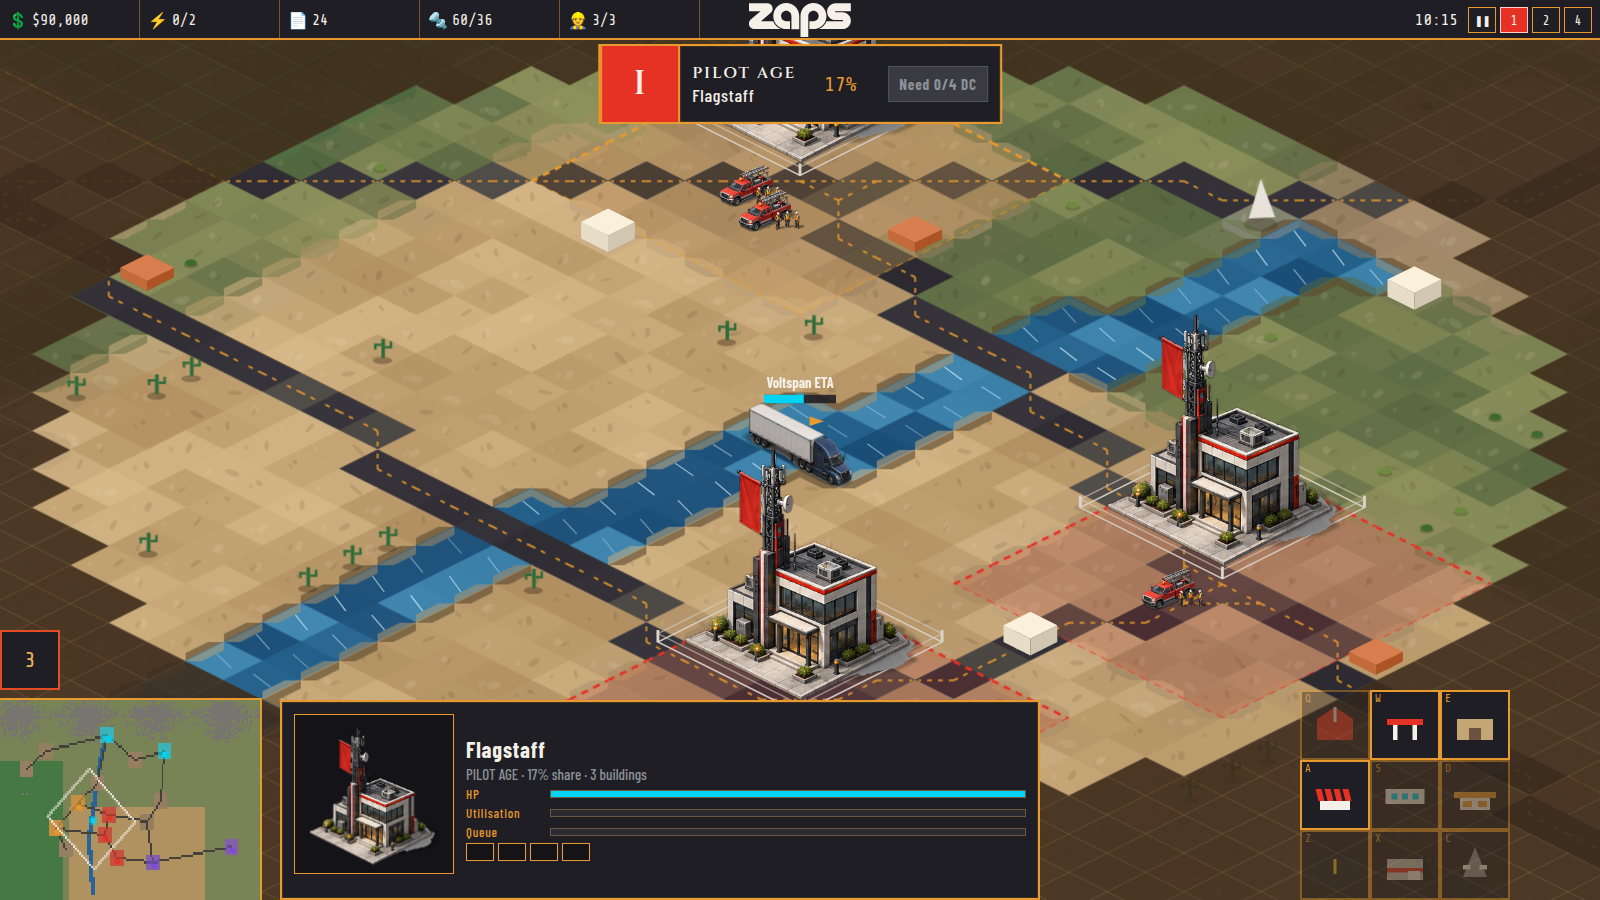
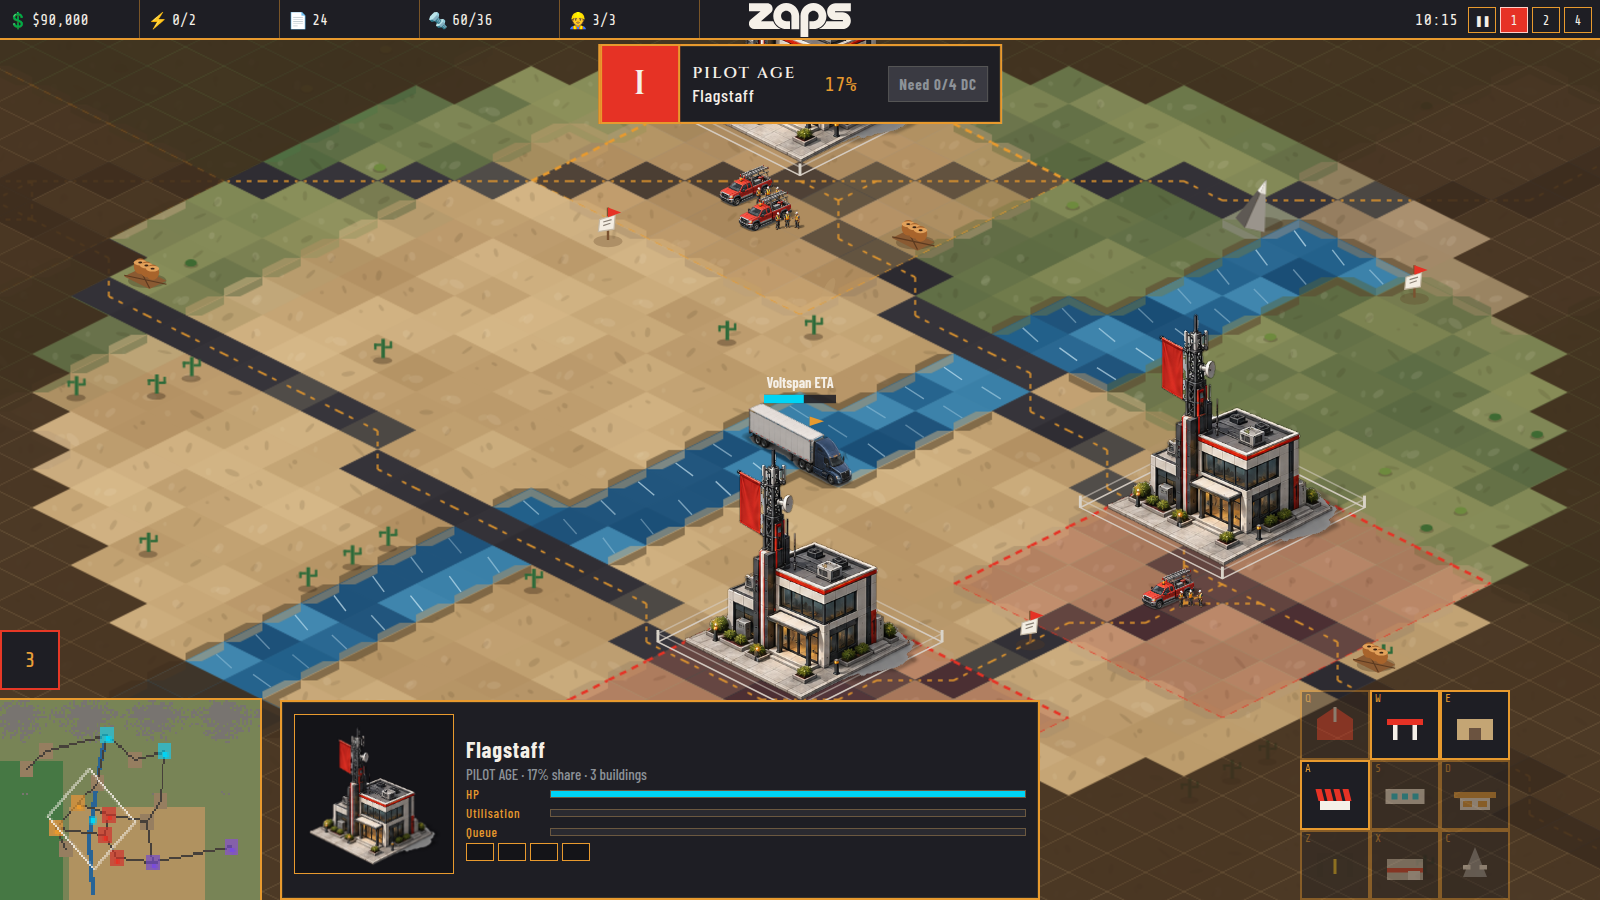
ZAPS EMPIRE: replace the leftover placeholder props.
Permit stakes and copper spools stand in for the node boxes, mountains have shaded faces, and the Phoenix frame keeps a single HQ above the HUD.

diff --git a/game.js b/game.js
@@ -517,11 +517,11 @@
     fogDirty = true;
   }
 
-  function focus(col, row, zoom) {
+  function focus(col, row, zoom, lift = 0) {
     camera.zoom = clamp(zoom, 0.32, 1.85);
     const p = iso(col, row);
     camera.x = viewW() / 2 - p.x * camera.zoom;
-    camera.y = viewH() / 2 - p.y * camera.zoom;
+    camera.y = viewH() / 2 - p.y * camera.zoom - lift;
     clampCamera();
   }
   function clampCamera() {
@@ -1426,17 +1426,7 @@
             g.fill();
             g.globalAlpha = 1;
           }
-          if (biome[idx(c, r)] === MOUNTAIN) {
-            const peak = 12 + hash(c, r) * 22;
-            const top = iso(c + 0.5, r + 0.5);
-            g.fillStyle = "rgba(48,32,18,0.28)";
-            g.beginPath();
-            g.ellipse(top.x, top.y + 4, 14, 6, 0, 0, Math.PI * 2);
-            g.fill();
-            poly(g, [{ x: top.x, y: top.y - peak }, { x: top.x + 12, y: top.y - 2 }, { x: top.x - 10, y: top.y - 1 }]);
-            g.fillStyle = peak > 26 ? "#E7E2DA" : "#8C8680";
-            g.fill();
-          }
+          if (biome[idx(c, r)] === MOUNTAIN) drawMesa(g, c, r);
           if (road[idx(c, r)]) drawRoadMarks(g, c, r);
           const n = hash(c, r);
           const zone = hash((c / 3) | 0, (r / 3) | 0);
@@ -1875,10 +1865,129 @@
     g.fillText(`${FACTION_NAME[c.faction] || "VOLTSPAN"} ETA`, p.x, p.y - 52);
   }
 
+  function drawMesa(g, c, r) {
+    const n = hash(c, r);
+    const peak = 14 + n * 18;
+    const top = iso(c + 0.5, r + 0.42);
+    const apex = { x: top.x + (n - 0.5) * 4, y: top.y - peak };
+    const footL = iso(c + 0.12, r + 0.78);
+    const footR = iso(c + 0.88, r + 0.78);
+    const footB = iso(c + 0.5, r + 0.92);
+    g.fillStyle = "rgba(48,32,18,0.3)";
+    g.beginPath();
+    g.ellipse(top.x, top.y + 5, 16, 6, 0, 0, Math.PI * 2);
+    g.fill();
+    g.fillStyle = n > 0.5 ? "#5E5954" : "#6A645E";
+    poly(g, [apex, footL, footB]);
+    g.fill();
+    g.fillStyle = n > 0.5 ? "#9A948C" : "#B0AAA2";
+    poly(g, [apex, footB, footR]);
+    g.fill();
+    g.strokeStyle = "rgba(40,32,28,0.35)";
+    g.lineWidth = 1;
+    g.beginPath();
+    g.moveTo(apex.x, apex.y);
+    g.lineTo(footB.x, footB.y);
+    g.stroke();
+    if (peak > 22) {
+      const s = 0.28;
+      g.fillStyle = "#F7F4EE";
+      poly(g, [
+        apex,
+        { x: apex.x + (footL.x - apex.x) * s, y: apex.y + (footL.y - apex.y) * s },
+        { x: apex.x + (footB.x - apex.x) * s, y: apex.y + (footB.y - apex.y) * s },
+      ]);
+      g.fill();
+      g.fillStyle = "#E4E0D8";
+      poly(g, [
+        apex,
+        { x: apex.x + (footB.x - apex.x) * s, y: apex.y + (footB.y - apex.y) * s },
+        { x: apex.x + (footR.x - apex.x) * s, y: apex.y + (footR.y - apex.y) * s },
+      ]);
+      g.fill();
+    }
+  }
   function drawNode(g, n) {
-    const color = n.kind === "hall" ? "#E7DCC8" : "#C46A3A";
-    dropShadow(g, n.col, n.row, 12, 5);
-    drawBox(g, n.col - 0.35, n.row - 0.35, 0.7, 0.7, n.kind === "yard" ? 8 : 14, color, shade(color, 20));
+    if (n.kind === "hall") drawPermitStake(g, n);
+    else drawSpoolPallet(g, n);
+  }
+  function drawPermitStake(g, n) {
+    const p = iso(n.col, n.row);
+    g.fillStyle = "rgba(90,62,32,0.28)";
+    g.beginPath();
+    g.ellipse(p.x, p.y + 2, 12, 5, 0, 0, Math.PI * 2);
+    g.fill();
+    g.strokeStyle = "#7A5230";
+    g.lineWidth = 2;
+    g.beginPath();
+    g.moveTo(p.x, p.y + 1);
+    g.lineTo(p.x, p.y - 26);
+    g.stroke();
+    g.fillStyle = "#F3EDE2";
+    g.beginPath();
+    g.moveTo(p.x - 7, p.y - 16);
+    g.lineTo(p.x + 6, p.y - 20);
+    g.lineTo(p.x + 5, p.y - 8);
+    g.lineTo(p.x - 8, p.y - 6);
+    g.closePath();
+    g.fill();
+    g.strokeStyle = "#C4B8A4";
+    g.lineWidth = 1;
+    g.stroke();
+    g.strokeStyle = "#8A8175";
+    g.beginPath();
+    g.moveTo(p.x - 4, p.y - 14);
+    g.lineTo(p.x + 3, p.y - 16);
+    g.moveTo(p.x - 4, p.y - 11);
+    g.lineTo(p.x + 2, p.y - 13);
+    g.stroke();
+    g.fillStyle = RED;
+    g.beginPath();
+    g.moveTo(p.x, p.y - 26);
+    g.lineTo(p.x + 11, p.y - 22);
+    g.lineTo(p.x, p.y - 18);
+    g.closePath();
+    g.fill();
+  }
+  function drawSpoolPallet(g, n) {
+    const p = iso(n.col, n.row);
+    g.fillStyle = "rgba(48,32,18,0.28)";
+    g.beginPath();
+    g.ellipse(p.x, p.y + 3, 16, 6, 0, 0, Math.PI * 2);
+    g.fill();
+    const a = iso(n.col - 0.32, n.row - 0.16);
+    const b = iso(n.col + 0.34, n.row - 0.16);
+    const c = iso(n.col + 0.34, n.row + 0.28);
+    const d = iso(n.col - 0.32, n.row + 0.28);
+    g.fillStyle = "#8A5A32";
+    poly(g, [a, b, c, d]);
+    g.fill();
+    g.strokeStyle = "#5C3A20";
+    g.lineWidth = 1;
+    g.beginPath();
+    g.moveTo(a.x, a.y + 3);
+    g.lineTo(c.x, c.y - 1);
+    g.moveTo(b.x, b.y + 3);
+    g.lineTo(d.x, d.y - 1);
+    g.stroke();
+    const copper = hash(n.col | 0, n.row | 0) > 0.45;
+    for (let i = 0; i < 3; i++) {
+      const s = iso(n.col - 0.16 + i * 0.16, n.row + 0.02);
+      const body = copper ? "#A8642C" : "#7E868E";
+      const lip = copper ? "#E2A15A" : "#D5DCE2";
+      g.fillStyle = body;
+      g.beginPath();
+      g.ellipse(s.x, s.y - 7, 5.5, 6.5, 0, 0, Math.PI * 2);
+      g.fill();
+      g.fillStyle = lip;
+      g.beginPath();
+      g.ellipse(s.x, s.y - 10, 5.5, 2.4, 0, 0, Math.PI * 2);
+      g.fill();
+      g.fillStyle = "#3A2414";
+      g.beginPath();
+      g.ellipse(s.x, s.y - 10, 1.7, 0.8, 0, 0, Math.PI * 2);
+      g.fill();
+    }
   }
 
   function fenceBox(city) {
@@ -2620,6 +2729,7 @@
     } else if (name === "compound") {
       state.age = 2;
       dressCompound(city, true);
+      keepNear(city, 7.5);
       revealDisk(city.col, city.row, 24, 2);
     } else if (name === "build") {
       const b = makeBuilding("dc", city.col + 1, city.row - 2, FACTION.zaps, 0.5);
@@ -2697,7 +2807,14 @@
       state.age = 2;
       state.hour = 21.5;
       dressCompound(city, false);
+      keepNear(city, 7.5);
       revealDisk(city.col, city.row, 20, 2);
+    }
+  }
+  function keepNear(city, radius) {
+    for (let i = buildings.length - 1; i >= 0; i--) {
+      const b = buildings[i];
+      if (Math.hypot(b.col + b.w / 2 - city.col, b.row + b.h / 2 - city.row) > radius) buildings.splice(i, 1);
     }
   }
 
@@ -2731,7 +2848,7 @@
       const c = cities.reduce((s, x) => s + x.col, 0) / cities.length;
       const r = cities.reduce((s, x) => s + x.row, 0) / cities.length;
       focus(c, r - 1, 0.4);
-    } else if (name === "compound" || name === "night") focus(city.col + 0.35, city.row + 0.15, 0.92);
+    } else if (name === "compound" || name === "night") focus(city.col + 0.15, city.row + 0.55, 1.12, 100);
     else if (name === "age") focus(city.col + 0.4, city.row + 0.6, 1.48);
     else if (name === "build") focus(city.col + 1.4, city.row - 1.2, 1.4);
     else if (name === "select") {
@@ -2816,7 +2933,7 @@
     buildCard();
     bind();
     resize();
-    if (!shot) focus(phx().col, phx().row + 0.4, 0.92);
+    if (!shot) focus(phx().col, phx().row + 0.8, 1.02, 80);
     if (shot === "age") showBanner("FLEET AGE");
     if (shot === "traffic") {
       const pay = vehicles.find((v) => v.phase === "pay");
